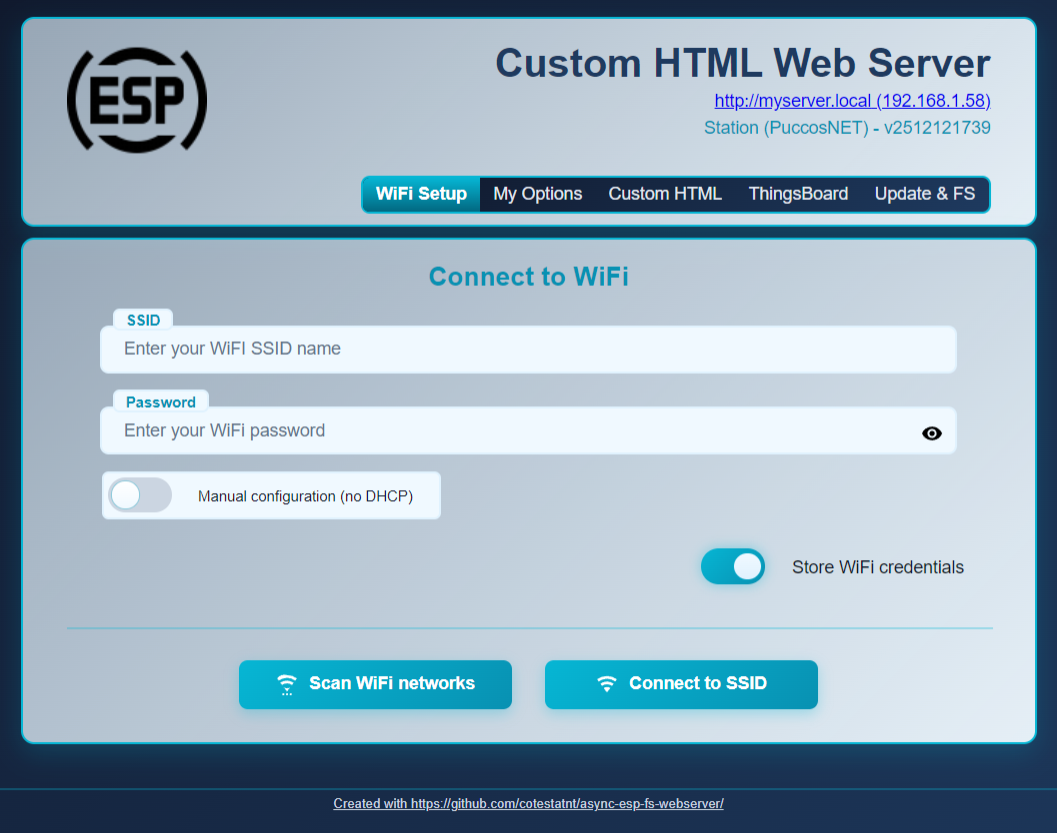
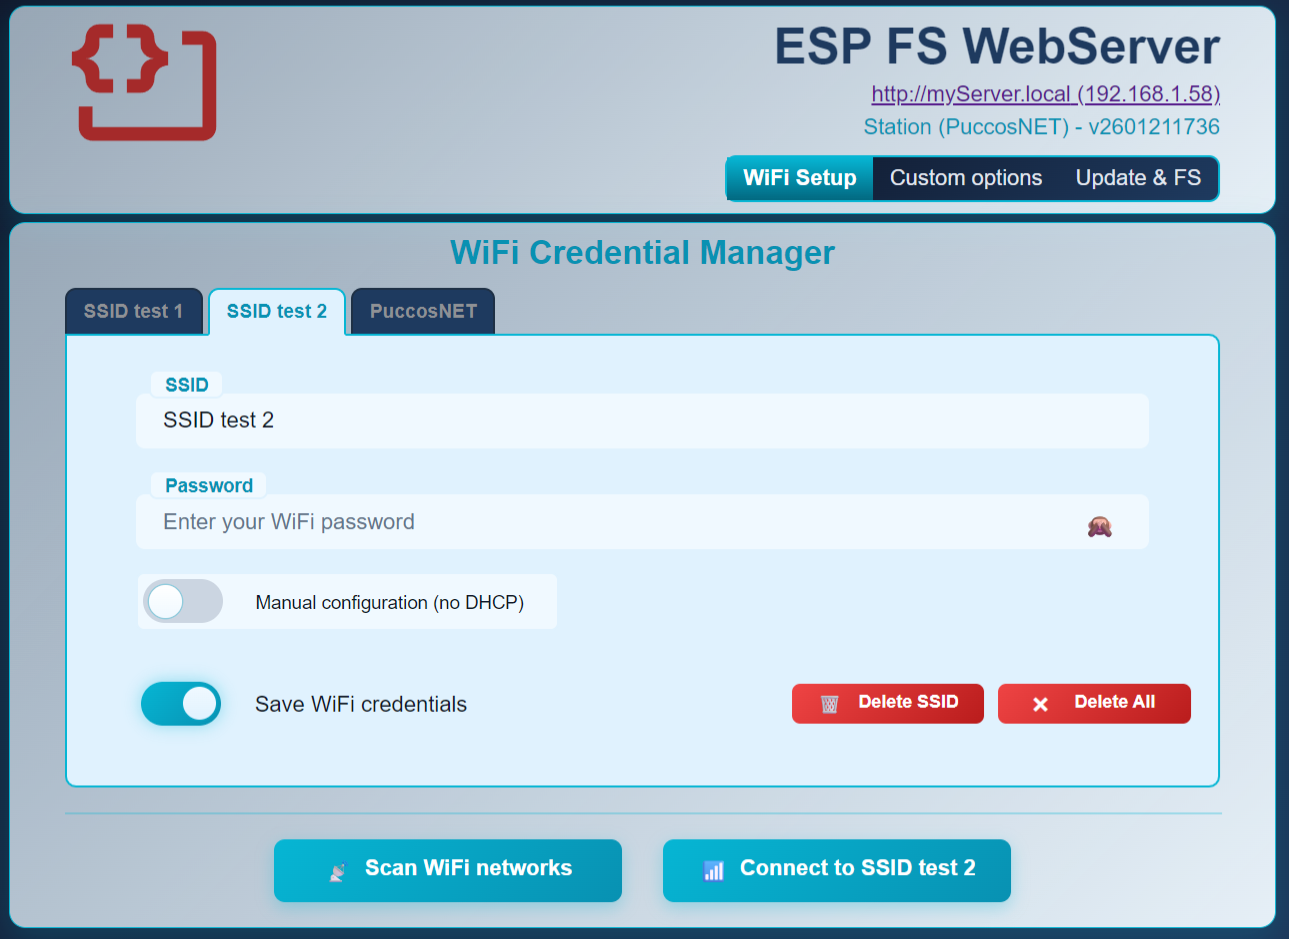
docs update, ready for release

diff --git a/README.md b/README.md
@@ -22,6 +22,7 @@ For more detailed information, please refer to the documentation in the `docs` f
 -   **[Setup and WiFi](docs/SetupAndWiFi.md)** – Guide to `startWiFi()`, captive portal, and the `/setup` page.
 -   **[Filesystem and Editor](docs/FileEditorAndFS.md)** – How to serve static files and use the `/edit` page.
 -   **[WebSocket](docs/WebSocket.md)** – Information on using the WebSocket server.
+-   **[Password Encryption](docs/pwd_encrypt.md)** – Information on how passwords are managed.
 
 ## Dependencies
 
@@ -69,6 +70,20 @@ void setup() {
 void loop() {
   server.run();
 }
+
+```
+
+## WiFi Management Enhancements
+
+### Dedicated WiFiService class
+- `WiFiService` centralizes scanning, connections, captive portal setup, MDNS, and watchdog handling so the sketch can stay focused on application logic.
+- When `startWiFi()` runs it loads credentials from `CredentialManager`, picks the SSID with the strongest RSSI (optionally honoring static IP data saved per credential), and reports a `WiFiStartResult` that tells `FSWebServer` whether to stay in STA or fall back to the captive portal.
+- `doWifiConnection()` now persists updated credentials before calling `WiFiService::connectWithParams()`, which feeds the long-timeout watchdog, reuses stored passwords when the form leaves the password blank, and advertises `http://<hostname>.local` through `startMDNSOnly()` as soon as the STA link is up. `FSWebServer` logs when mDNS becomes reachable so you can verify the hostname was published.
+
+### Setup page reconnection experience
+- The `/getStatus` handler exposes firmware version, active mode, hostname, IP, and the configuration file path so the UI knows where to direct the user after a network change.
+- After `/connect` begins switching SSIDs the browser starts polling `http://<hostname>.local/getStatus` (falling back to the captured AP when necessary) until the ESP reappears on the new network, automatically updates the credential list, and surfaces a timeout message only after several failed polls.
+- This polling loop keeps the loader visible, shows a modal once the device is reachable again, and points users to either the new `http://<hostname>.local` URL or the IP reported by the ESP without forcing them to refresh manually.
 ```
 ### Custom application "options manager"
 ![options](docs/options_manager.png)

diff --git a/docs/pwd_encrypt.md b/docs/pwd_encrypt.md
@@ -30,7 +30,7 @@ Then:
 
 ```
 ┌─────────────────────────────────────────────────────┐
-│         User's Arduino Sketch (simpleServer.ino)    │
+│              User's Arduino Sketch                  │
 │                                                     │
 │  - Calls: server.begin()                            │
 │  - Calls: server.run()                              │
